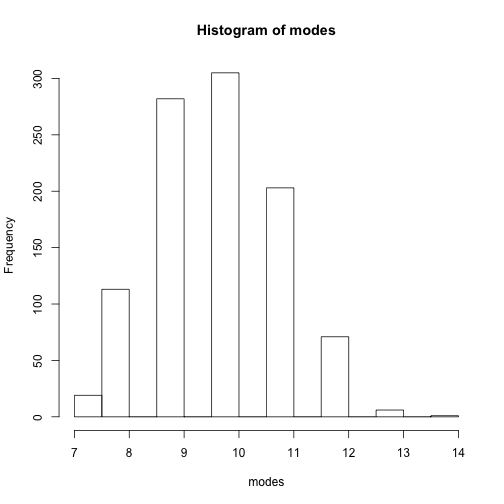
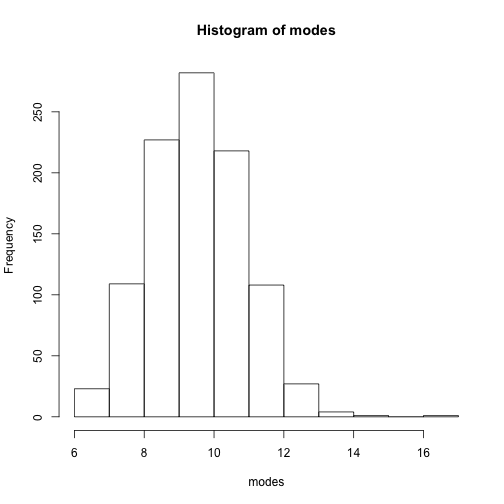
Now bootstrapping the proceadure to find the bandwidth using the SJ method

diff --git a/class/boot/boot.html b/class/boot/boot.html
@@ -279,51 +279,33 @@ B &lt;- 1000
 set.seed(20130312)
 data &lt;- sapply(1:B, function(x) sample(stamp, replace = TRUE))
 
-## Set bw
+## Original bw
 bw &lt;- density(stamp, bw = &quot;SJ&quot;)$bw
+bw
+</code></pre>
 
+<pre><code>## [1] 0.001205
+</code></pre>
+
+<pre><code class="r">
 ## Find modes function
-nModes &lt;- function(x, bw) {
+nModes &lt;- function(x, bw = &quot;SJ&quot;) {
     d &lt;- density(x, bw = bw)
     length(localMaxima(d$y))
 }
 
 ## Find the modes
-modes &lt;- apply(data, 2, nModes, bw = bw)
+modes &lt;- apply(data, 2, nModes)
 </code></pre>
 
 <p>Doing it with the boot package</p>
 
 <pre><code class="r">nModes.boot &lt;- function(x, i) {
-    d &lt;- density(x[i], bw = bw)
+    d &lt;- density(x[i], bw = &quot;SJ&quot;)
     length(localMaxima(d$y))
 }
-set.seed(201303122)
+set.seed(20130312)
 modes.boot &lt;- boot(stamp, nModes.boot, 1000)
-boot.ci(modes.boot)
-</code></pre>
-
-<pre><code>## Warning: bootstrap variances needed for studentized intervals
-</code></pre>
-
-<pre><code>## Warning: extreme order statistics used as endpoints
-</code></pre>
-
-<pre><code>## BOOTSTRAP CONFIDENCE INTERVAL CALCULATIONS
-## Based on 1000 bootstrap replicates
-## 
-## CALL : 
-## boot.ci(boot.out = modes.boot)
-## 
-## Intervals : 
-## Level      Normal              Basic         
-## 95%   ( 5.963, 10.529 )   ( 6.000, 10.000 )  
-## 
-## Level     Percentile            BCa          
-## 95%   ( 8, 12 )   ( 7, 10 )  
-## Calculations and Intervals on Original Scale
-## Warning : BCa Intervals used Extreme Quantiles
-## Some BCa intervals may be unstable
 </code></pre>
 
 <h1>Point 10: CI</h1>
@@ -332,7 +314,7 @@ boot.ci(modes.boot)
 hist(modes)
 </code></pre>
 
[2 lines of base64/hex data omitted]
 
 <pre><code class="r">
 ## Confidence interval: non-parametric
@@ -340,7 +322,7 @@ quantile(modes, c(0.025, 0.975))
 </code></pre>
 
 <pre><code>##  2.5% 97.5% 
-##     8    12
+##     8    13
 </code></pre>
 
 <pre><code class="r">
@@ -362,10 +344,10 @@ boot.ci(modes.boot)
 ## 
 ## Intervals : 
 ## Level      Normal              Basic         
-## 95%   ( 5.963, 10.529 )   ( 6.000, 10.000 )  
+## 95%   ( 5.313, 10.611 )   ( 5.000, 10.000 )  
 ## 
 ## Level     Percentile            BCa          
-## 95%   ( 8, 12 )   ( 7, 10 )  
+## 95%   ( 8, 13 )   ( 7, 10 )  
 ## Calculations and Intervals on Original Scale
 ## Warning : BCa Intervals used Extreme Quantiles
 ## Some BCa intervals may be unstable

diff --git a/class/boot/boot.md b/class/boot/boot.md
@@ -129,17 +129,25 @@ B <- 1000
 set.seed(20130312)
 data <- sapply(1:B, function(x) sample(stamp, replace = TRUE))
 
-## Set bw
+## Original bw
 bw <- density(stamp, bw = "SJ")$bw
+bw
+```
+
+```
+## [1] 0.001205
+```
+
+```r
 
 ## Find modes function
-nModes <- function(x, bw) {
+nModes <- function(x, bw = "SJ") {
     d <- density(x, bw = bw)
     length(localMaxima(d$y))
 }
 
 ## Find the modes
-modes <- apply(data, 2, nModes, bw = bw)
+modes <- apply(data, 2, nModes)
 ```
 
 
@@ -148,38 +156,11 @@ Doing it with the boot package
 
 ```r
 nModes.boot <- function(x, i) {
-    d <- density(x[i], bw = bw)
+    d <- density(x[i], bw = "SJ")
     length(localMaxima(d$y))
 }
-set.seed(201303122)
+set.seed(20130312)
 modes.boot <- boot(stamp, nModes.boot, 1000)
-boot.ci(modes.boot)
-```
-
-```
-## Warning: bootstrap variances needed for studentized intervals
-```
-
-```
-## Warning: extreme order statistics used as endpoints
-```
-
-```
-## BOOTSTRAP CONFIDENCE INTERVAL CALCULATIONS
-## Based on 1000 bootstrap replicates
-## 
-## CALL : 
-## boot.ci(boot.out = modes.boot)
-## 
-## Intervals : 
-## Level      Normal              Basic         
-## 95%   ( 5.963, 10.529 )   ( 6.000, 10.000 )  
-## 
-## Level     Percentile            BCa          
-## 95%   ( 8, 12 )   ( 7, 10 )  
-## Calculations and Intervals on Original Scale
-## Warning : BCa Intervals used Extreme Quantiles
-## Some BCa intervals may be unstable
 ```
 
 
@@ -202,7 +183,7 @@ quantile(modes, c(0.025, 0.975))
 
 ```
 ##  2.5% 97.5% 
-##     8    12
+##     8    13
 ```
 
 ```r
@@ -228,10 +209,10 @@ boot.ci(modes.boot)
 ## 
 ## Intervals : 
 ## Level      Normal              Basic         
-## 95%   ( 5.963, 10.529 )   ( 6.000, 10.000 )  
+## 95%   ( 5.313, 10.611 )   ( 5.000, 10.000 )  
 ## 
 ## Level     Percentile            BCa          
-## 95%   ( 8, 12 )   ( 7, 10 )  
+## 95%   ( 8, 13 )   ( 7, 10 )  
 ## Calculations and Intervals on Original Scale
 ## Warning : BCa Intervals used Extreme Quantiles
 ## Some BCa intervals may be unstable
